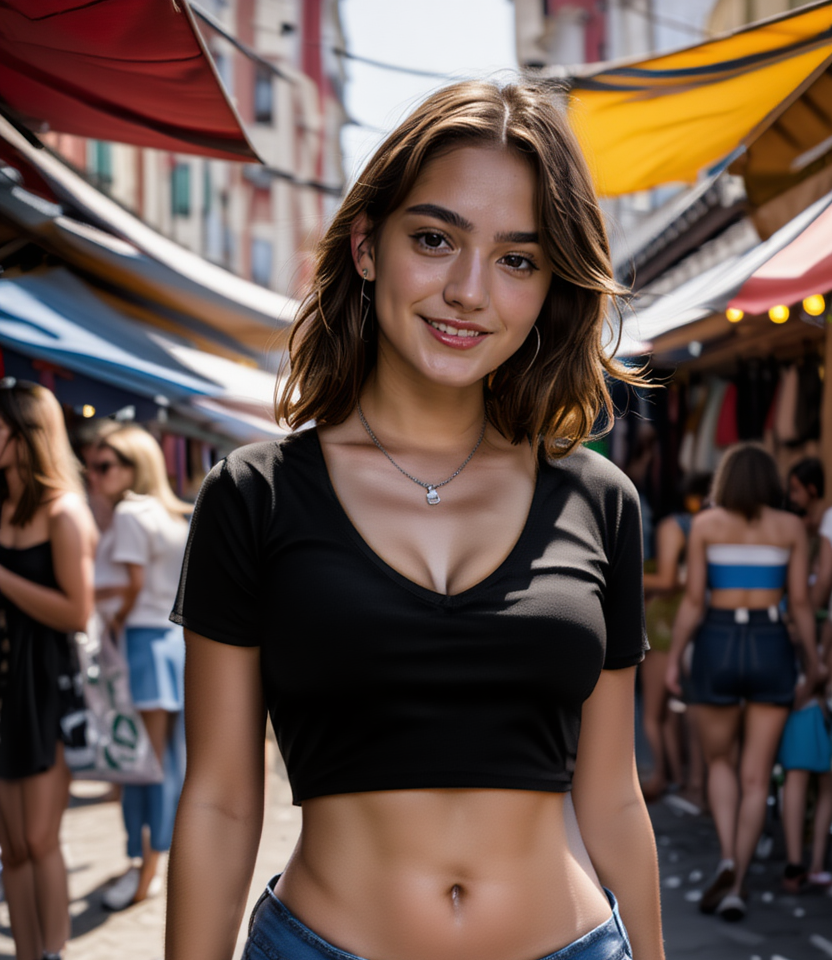
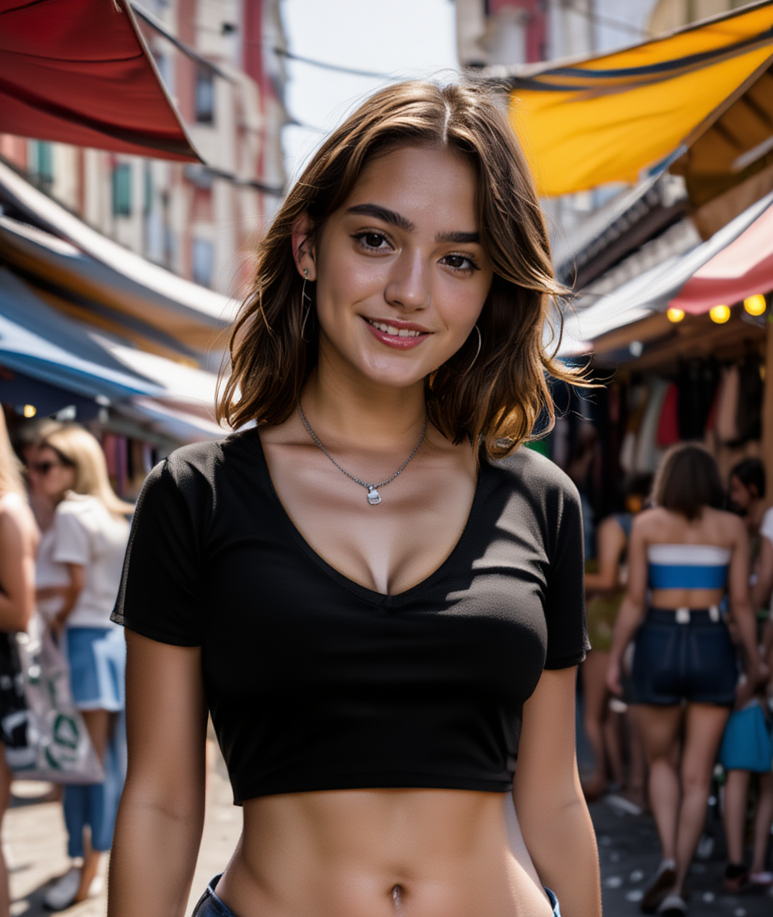
Updates

diff --git a/src/pages/ModelSelection.tsx b/src/pages/ModelSelection.tsx
@@ -26,9 +26,9 @@ const modelsData: Model[] = [
   { id: "model-11", name: "Nina", age: 22, nationality: "Japanese", image: "/models/nina.png" },
   { id: "model-12", name: "Viktoria", age: 23, nationality: "Russian", image: "/models/viktoria.png" },
   { id: "model-13", name: "Chloe", age: 20, nationality: "French", image: "/models/chloe.png" },
-  { id: "model-14", name: "Anika", age: 24, nationality: "German", image: "/models/anika.png" },
+  { id: "model-14", name: "Lena", age: 24, nationality: "German", image: "/models/lena.png" },
   { id: "model-15", name: "Valeria", age: 22, nationality: "Spanish", image: "/models/valeria.png" },
-  { id: "model-16", name: "Suhani", age: 26, nationality: "Indian", image: "/suhani.png" },
+  { id: "model-16", name: "Suhani", age: 26, nationality: "Indian", image: "/models/suhani.png" },
 
 ];
 
